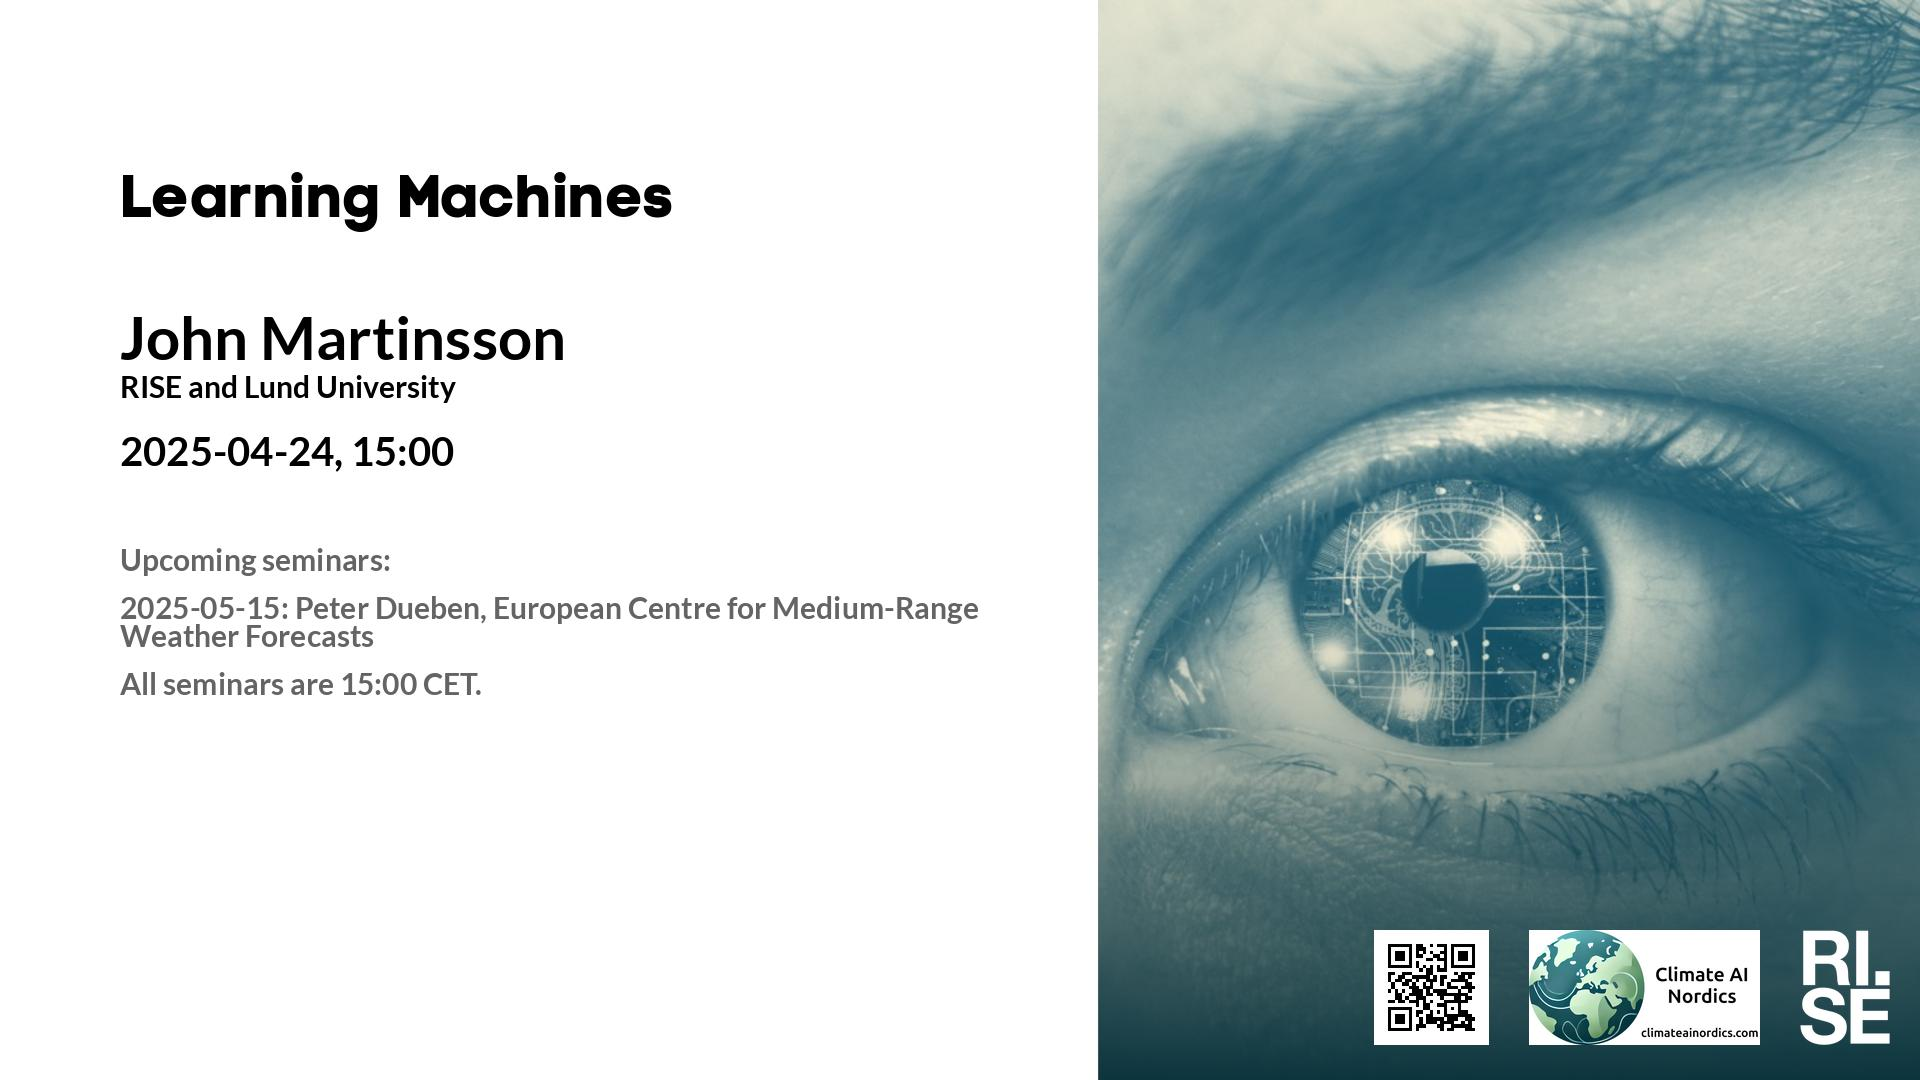
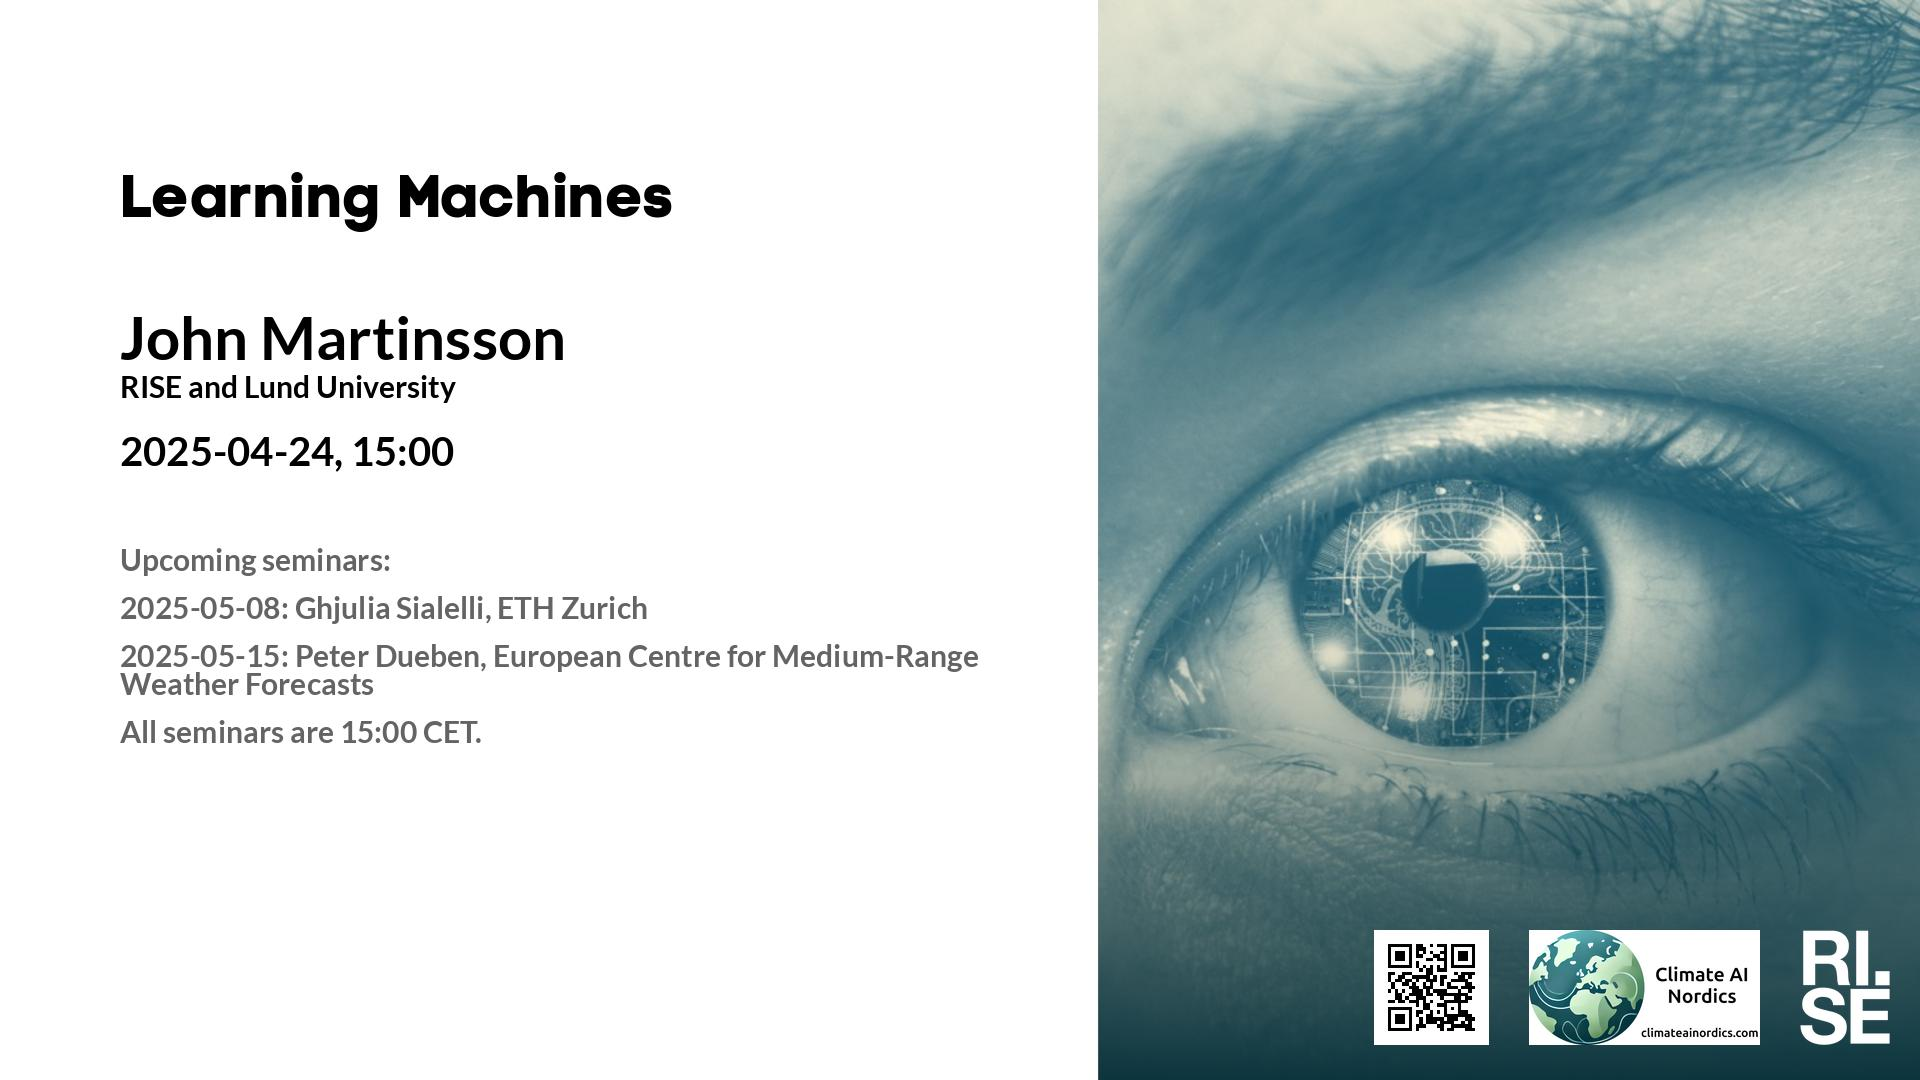
Updated plan on web site.

Changed region(s): [[0.0625, 0.55, 0.5, 0.7028]]

diff --git a/lm/2025.md b/lm/2025.md
@@ -25,7 +25,7 @@ table {border-collapse: collapse;}
 | <span style="color:red"> 2025-04-17 </span> | <span style="color:red"> Holy Thursday </span> | <span style="color:red">  </span> | <span style="color:red">  </span> | <span style="color:red">  </span> | <span style="color:red">  </span> | <span style="color:red"> CANCELLED </span> |
 |  2025-04-24  |  [John Martinsson, RISE and Lund University](2025-04-24.md)  |  [photo](2025-04-24-photo-john-martinsson.jpg)  |  [social media ](2025-04-24-social-media-john-martinsson.jpg)  |  [meeting backdrop ](2025-04-24-meeting-backdrop-john-martinsson.jpg)  |  [youtube thumbnail ](2025-04-24-youtube-thumbnail-john-martinsson.jpg)  |  S~~TA~~BP  |
 | <span style="color:red"> 2025-05-01 </span> | <span style="color:red"> International Workers' Day </span> | <span style="color:red">  </span> | <span style="color:red">  </span> | <span style="color:red">  </span> | <span style="color:red">  </span> | <span style="color:red"> CANCELLED </span> |
-| <span style="color:purple"> 2025-05-08 </span> | <span style="color:purple"> *Up for grabs!!!* </span> | <span style="color:purple">  </span> | <span style="color:purple">  </span> | <span style="color:purple">  </span> | <span style="color:purple">  </span> | <span style="color:purple"> ~~STABP~~ </span> |
+|  2025-05-08  |  [Ghjulia Sialelli, ETH Zurich](2025-05-08.md)  |    |  [social media ](2025-05-08-social-media-ghjulia-sialelli.jpg)  |  [meeting backdrop ](2025-05-08-meeting-backdrop-ghjulia-sialelli.jpg)  |  [youtube thumbnail ](2025-05-08-youtube-thumbnail-ghjulia-sialelli.jpg)  |  S~~TABP~~  |
 |  2025-05-15  |  [Peter Dueben, European Centre for Medium-Range Weather Forecasts](2025-05-15.md)  |    |  [social media ](2025-05-15-social-media-peter-dueben.jpg)  |  [meeting backdrop ](2025-05-15-meeting-backdrop-peter-dueben.jpg)  |  [youtube thumbnail ](2025-05-15-youtube-thumbnail-peter-dueben.jpg)  |  S~~TABP~~  |
 | <span style="color:purple"> 2025-05-22 </span> | <span style="color:purple"> *Up for grabs!!!* </span> | <span style="color:purple">  </span> | <span style="color:purple">  </span> | <span style="color:purple">  </span> | <span style="color:purple">  </span> | <span style="color:purple"> ~~STABP~~ </span> |
 | <span style="color:red"> 2025-05-29 </span> | <span style="color:red"> Ascension Day  </span> | <span style="color:red">  </span> | <span style="color:red">  </span> | <span style="color:red">  </span> | <span style="color:red">  </span> | <span style="color:red"> CANCELLED </span> |

diff --git a/lm/index.md b/lm/index.md
@@ -25,7 +25,7 @@ table {border-collapse: collapse;}
 | <span style="color:red"> 2025-04-17 </span> | <span style="color:red"> Holy Thursday </span> | <span style="color:red">  </span> | <span style="color:red">  </span> | <span style="color:red">  </span> | <span style="color:red">  </span> | <span style="color:red"> CANCELLED </span> |
 |  2025-04-24  |  [John Martinsson, RISE and Lund University](2025-04-24.md)  |  [photo](2025-04-24-photo-john-martinsson.jpg)  |  [social media ](2025-04-24-social-media-john-martinsson.jpg)  |  [meeting backdrop ](2025-04-24-meeting-backdrop-john-martinsson.jpg)  |  [youtube thumbnail ](2025-04-24-youtube-thumbnail-john-martinsson.jpg)  |  S~~TA~~BP  |
 | <span style="color:red"> 2025-05-01 </span> | <span style="color:red"> International Workers' Day </span> | <span style="color:red">  </span> | <span style="color:red">  </span> | <span style="color:red">  </span> | <span style="color:red">  </span> | <span style="color:red"> CANCELLED </span> |
-| <span style="color:purple"> 2025-05-08 </span> | <span style="color:purple"> *Up for grabs!!!* </span> | <span style="color:purple">  </span> | <span style="color:purple">  </span> | <span style="color:purple">  </span> | <span style="color:purple">  </span> | <span style="color:purple"> ~~STABP~~ </span> |
+|  2025-05-08  |  [Ghjulia Sialelli, ETH Zurich](2025-05-08.md)  |    |  [social media ](2025-05-08-social-media-ghjulia-sialelli.jpg)  |  [meeting backdrop ](2025-05-08-meeting-backdrop-ghjulia-sialelli.jpg)  |  [youtube thumbnail ](2025-05-08-youtube-thumbnail-ghjulia-sialelli.jpg)  |  S~~TABP~~  |
 |  2025-05-15  |  [Peter Dueben, European Centre for Medium-Range Weather Forecasts](2025-05-15.md)  |    |  [social media ](2025-05-15-social-media-peter-dueben.jpg)  |  [meeting backdrop ](2025-05-15-meeting-backdrop-peter-dueben.jpg)  |  [youtube thumbnail ](2025-05-15-youtube-thumbnail-peter-dueben.jpg)  |  S~~TABP~~  |
 | <span style="color:purple"> 2025-05-22 </span> | <span style="color:purple"> *Up for grabs!!!* </span> | <span style="color:purple">  </span> | <span style="color:purple">  </span> | <span style="color:purple">  </span> | <span style="color:purple">  </span> | <span style="color:purple"> ~~STABP~~ </span> |
 | <span style="color:red"> 2025-05-29 </span> | <span style="color:red"> Ascension Day  </span> | <span style="color:red">  </span> | <span style="color:red">  </span> | <span style="color:red">  </span> | <span style="color:red">  </span> | <span style="color:red"> CANCELLED </span> |

diff --git a/lm/statistics-2025.md b/lm/statistics-2025.md
@@ -10,11 +10,11 @@ title: Learning Machines Statistics 2025
 
 
 
-## 13 speakers
+## 14 speakers
 
-Abdul Shaamala, Abdulhakim Abdi, Amal Nammouchi, Atakan Aral, Beici Liang, Benjamin Cretois, John Martinsson, María J. Molina, Newton Mwai Kinyanjui, Oriol Nieto, Oscar Täckström, Peter Dueben, Sherrie Wang
+Abdul Shaamala, Abdulhakim Abdi, Amal Nammouchi, Atakan Aral, Beici Liang, Benjamin Cretois, Ghjulia Sialelli, John Martinsson, María J. Molina, Newton Mwai Kinyanjui, Oriol Nieto, Oscar Täckström, Peter Dueben, Sherrie Wang
 
-## 13 affiliations
+## 14 affiliations
 
-Adobe, Chalmers University of Technology, Epidemic sound, European Centre for Medium-Range Weather Forecasts, Karlstad University and AfriClimate AI, Lund University, MIT, Norwegian Institute for Nature Research, Queensland University of Technology, RISE and Lund University, Sana Labs, University of Maryland, University of Vienna
+Adobe, Chalmers University of Technology, ETH Zurich, Epidemic sound, European Centre for Medium-Range Weather Forecasts, Karlstad University and AfriClimate AI, Lund University, MIT, Norwegian Institute for Nature Research, Queensland University of Technology, RISE and Lund University, Sana Labs, University of Maryland, University of Vienna
 

diff --git a/lm/2025-05-08.md b/lm/2025-05-08.md
@@ -9,21 +9,20 @@ This seminar is a collaboration between RISE and Climate AI Nordics -- [climatea
 
 **Title:** N/A
 
-**Speaker:** John Martinsson, RISE and Lund University
+**Speaker:** Ghjulia Sialelli, ETH Zurich
 
 **Abstract:** N/A
 
-**About the speaker:** John Martinsson is a PhD candidate at RISE Research Institutes of Sweden and Lund University. His research interests lie in applying machine learning to automated sensing and perception of natural environments, particularly through sound. He aims to develop machine listening methods that help monitor the impacts humans have on ecosystems by enabling automated species detection and biodiversity estimation in bioacoustic data.
+**About the speaker:** N/A
 
 **Location:** This is an online seminar. Connect using Zoom.
 
-**Date:** 2025-04-24 15:00
+**Date:** 2025-05-08 15:00
 
 **Zoom link:** [N/A](N/A)
 
 **Upcoming seminars:**
 
-* 2025-05-08: Ghjulia Sialelli, ETH Zurich
 * 2025-05-15: Peter Dueben, European Centre for Medium-Range Weather Forecasts
 * All seminars are 15:00 CET.
 
